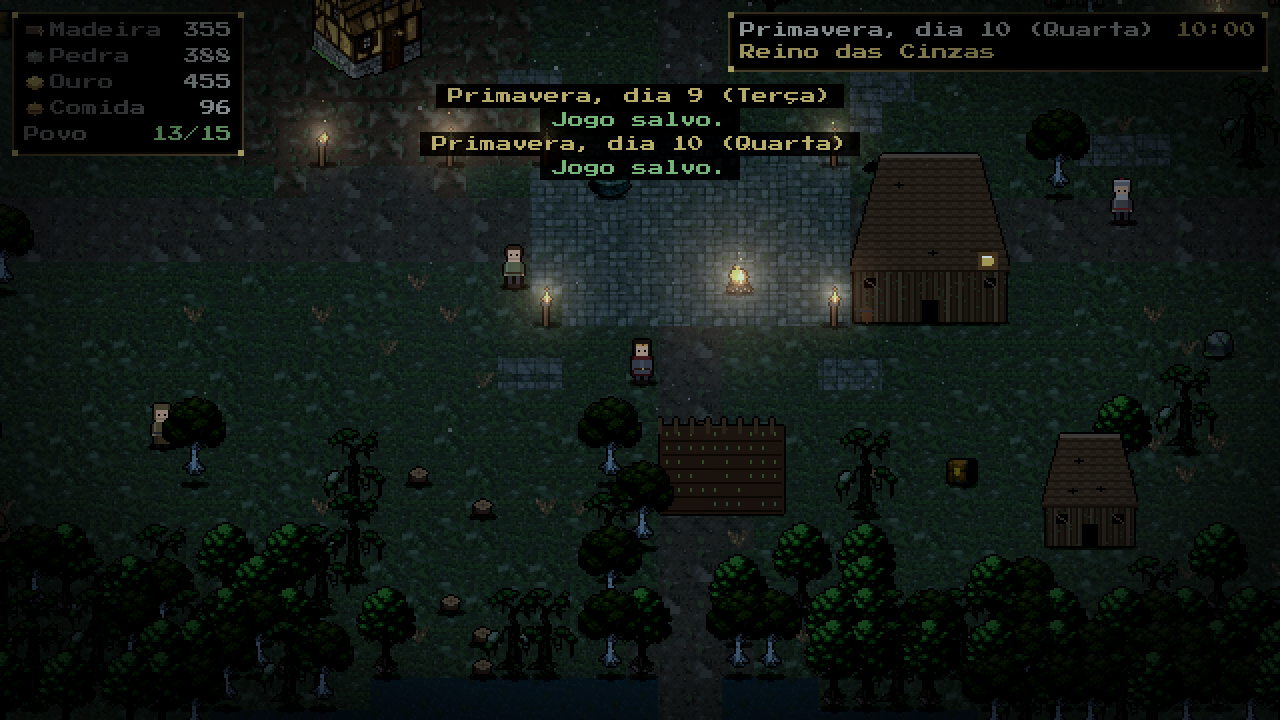
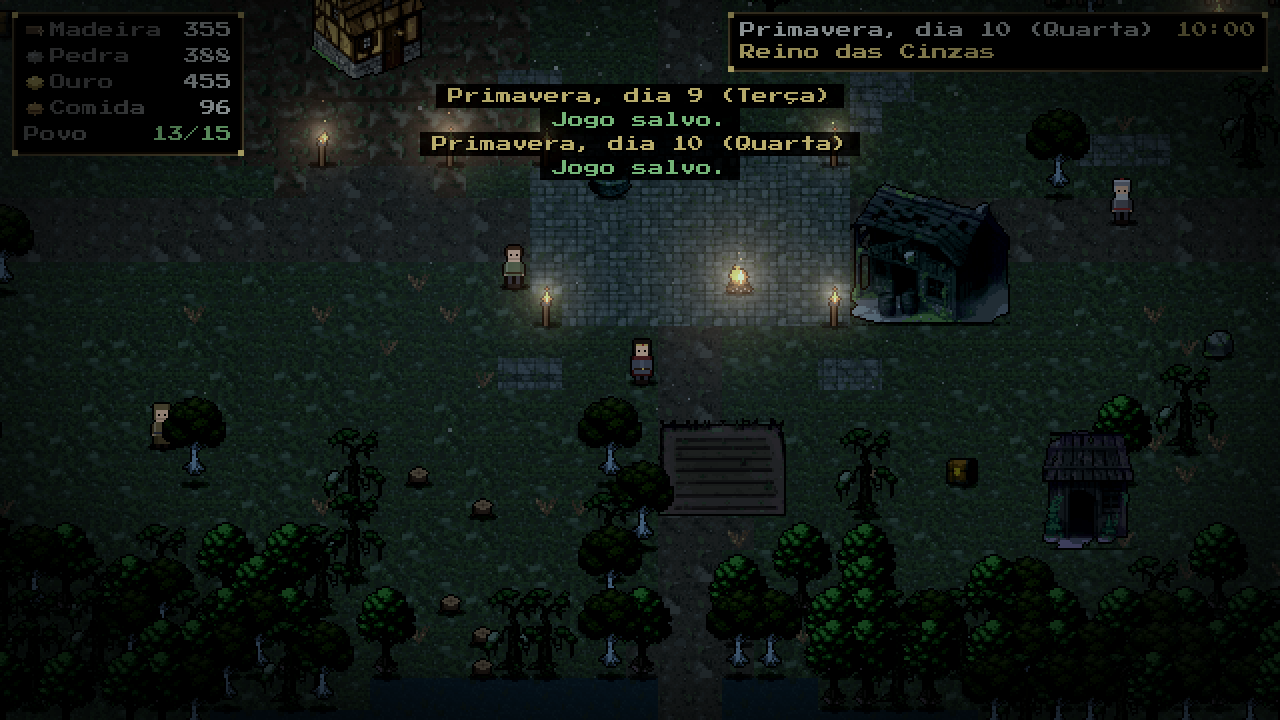
Arte da fase 5 pelo NidraIA: construções, obras e barraco
- 30 sprites novos em Assets/Arte: moradia, taverna, mercado, capela, forja,
  posto, torre e campo (n1 madeira podre, n2 enxaimel, n3 pedra), os 5
  canteiros de obra e o barraco
- prompts.json: entradas novas; fogueira e aldeões ficam procedurais
  (pranchas saíram inconsistentes), com o motivo anotado
- Capturas antes/depois em capturas/arte_nidraia e roteiro atualizado

Changed region(s): [[0.6562, 0.2139, 0.8125, 0.4583], [0.5, 0.5806, 0.625, 0.7333], [0.8125, 0.5806, 0.9062, 0.7639]]

diff --git a/arte_fonte/LEIA-ME.md b/arte_fonte/LEIA-ME.md
@@ -30,3 +30,10 @@ o que não tem arte importada continua procedural.
 - `textura`: gera uma textura, reduz 16×, recorta 4 variantes e funde as bordas para emendar sem costura.
   A água usa a mesma variante deslocada em cada quadro, então a animação também emenda.
 - `prancha`: vários quadros numa imagem só (tentado no herói; desativado, veja o `prompts.json`).
+
+## O que veio do NidraIA
+
+- Fase 1–4: casas (n1–n4), castelo, árvores, rochas, baús, túmulos, poço e terreno.
+- Fase 5: moradia, taverna, mercado, capela, forja, posto, torre e campo (n1–n3), canteiros `obra_*` e `barraco`.
+- Ficam procedurais: herói, NPCs e aldeões (nas pranchas os quadros saem diferentes entre si e os rostos somem),
+  fogueira (a prancha de 4 quadros saiu sem chama), ícones, tocha, cerca, arbusto, toco, luz e sombra.
